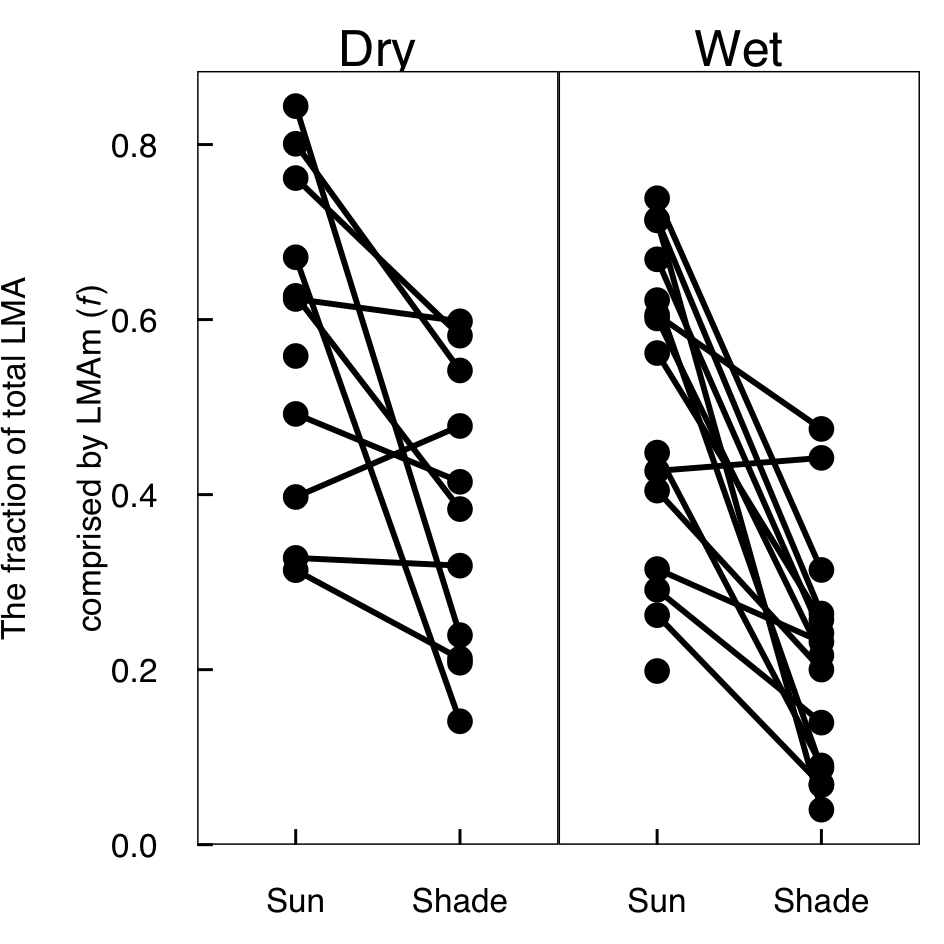
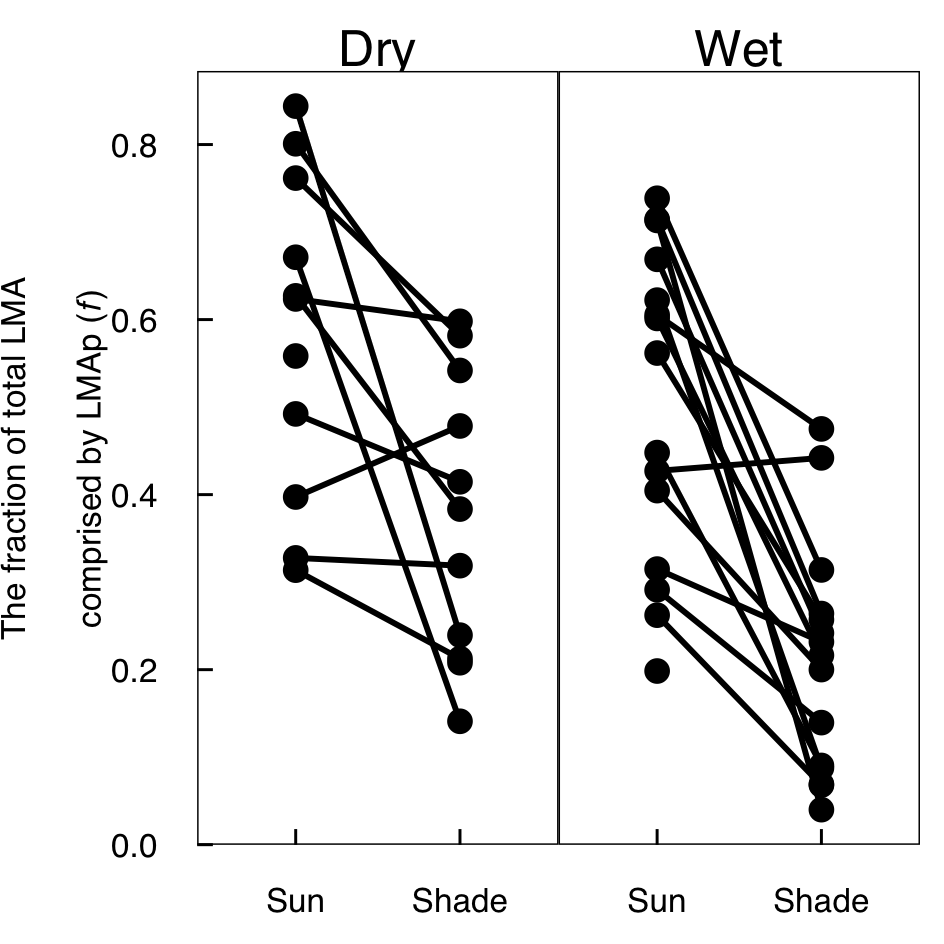
added new scatter plots
- using rho for patial correlation

Changed region(s): [[0.0614, 0.3072, 0.1229, 0.6758]]

diff --git a/ms/LMAms_main.tex b/ms/LMAms_main.tex
@@ -744,7 +744,7 @@ Effect of light on LL (\(\theta\)) & - & \textbf{-1.046 {[}-1.471, -0.617{]}} \\
 (B) Two-dimensional relationship between photosynthetic capacity (\emph{A}\textsubscript{max}) per-unit leaf area and total LMA (equal to LMAp + LMAs).
 (C) One-dimensional relationship between \emph{A}\textsubscript{max} per-unit leaf mass and total LMA.
 LMAp and LMAs are simulated from a hypothetical scenario of lognormal distributions with medians of 80 and standard deviations of exp(0.8) and exp(0.7), and zero covariance.
-Variation in \emph{A}\textsubscript{max} values are derived from our analysis of the GLOPNET database. \(A_{\mathrm{area} \, i}=1.9\mathrm{LMAp}_i^{0.36}\mathrm{LMAs}^{-0.25}\epsilon_i\), where \(\epsilon_i\) is log-normally distributed with log-mean with 0, log-scale parameter with 0.3 (see Methods and Results).}\label{fig:Hplt}
+Variation in \emph{A}\textsubscript{max} values are derived from our analysis of the GLOPNET database. \(A_{\mathrm{area} \, i}=1.81\mathrm{LMAp}_i^{0.28}\mathrm{LMAs}^{-0.13}\epsilon_i\), where \(\epsilon_i\) is log-normally distributed with log-mean with 0, log-scale parameter with 0.31 (see Methods and Results).}\label{fig:Hplt}
 }
 \end{figure}
 
@@ -753,9 +753,8 @@ Variation in \emph{A}\textsubscript{max} values are derived from our analysis of
 \centering
 \includegraphics{../figs/GL_scatter.png}
 \caption{Observed and estimated leaf-trait relationships in the global GLOPNET dataset.
-(A) Leaf life span (LL), net photosynthetic rate per unit leaf area (\emph{A}\textsubscript{area}), and dark respiration rate per unit leaf area (\emph{R}\textsubscript{area}) are plotted against observed LMA.
-(B) Residuals of LL, \emph{A}\textsubscript{area}, and \emph{R}\textsubscript{area} regressed on posterior estimates of photosynthetic and structural LMA components (LMAp and LMAs, respectively) are plotted against LMAp and LMAs (only means are shown).
-Pearson correlation coefficients are for LMA (left column) and posterior distributions of LMAp (middle column) and LMAs (right column).}\label{fig:GLplt}
+Estimates are from the NAME Model (Eq. X).
+Leaf life span (LL), net photosynthetic rate per unit leaf area (\emph{A}\textsubscript{area}), and dark respiration rate per unit leaf area (\emph{R}\textsubscript{area}) are plotted against observed LMA, posteriors means of LMAp and LMAs.}\label{fig:GLplt}
 }
 \end{figure}
 

diff --git a/README.md b/README.md
@@ -10,15 +10,6 @@ or
 
 - `git clone git@github.com:mattocci27/LMAms.git`
 
-### Docker
-
-To build docker image
-
-```
-time docker build -f docker-local/Dockerfile -t mattocci/lma:3.6.3 .
-docker tag mattocci/lma:3.6.3 219.72.93.96:5000/mattocci/lma:3.6.3 
-docker push 219.72.93.96:5000/mattocci/lma:3.6.3 
-```
 
 ### Singularity
 
